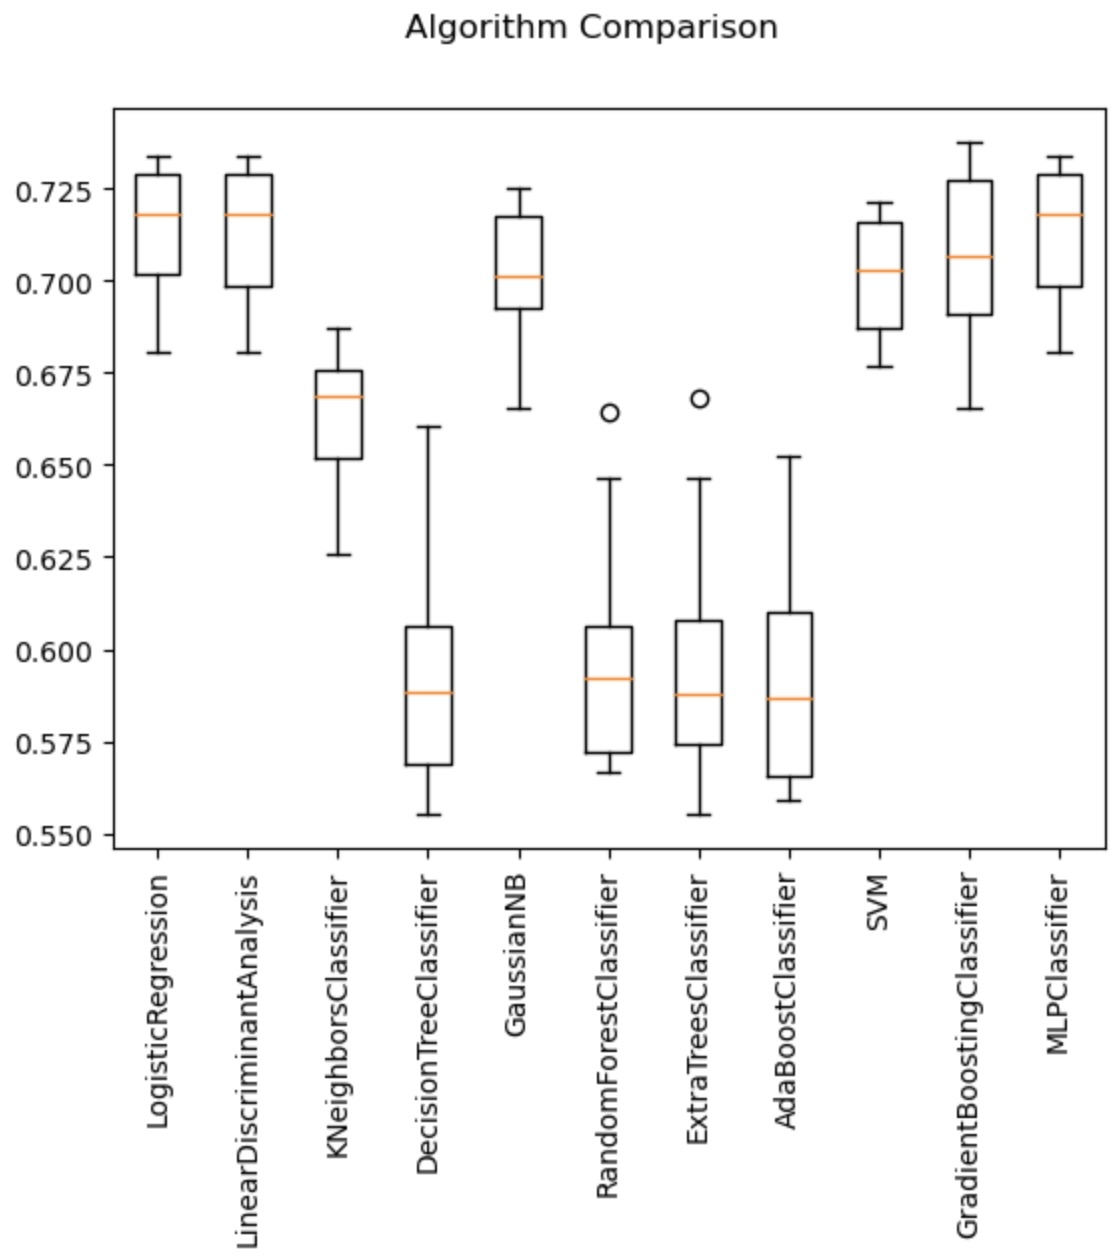
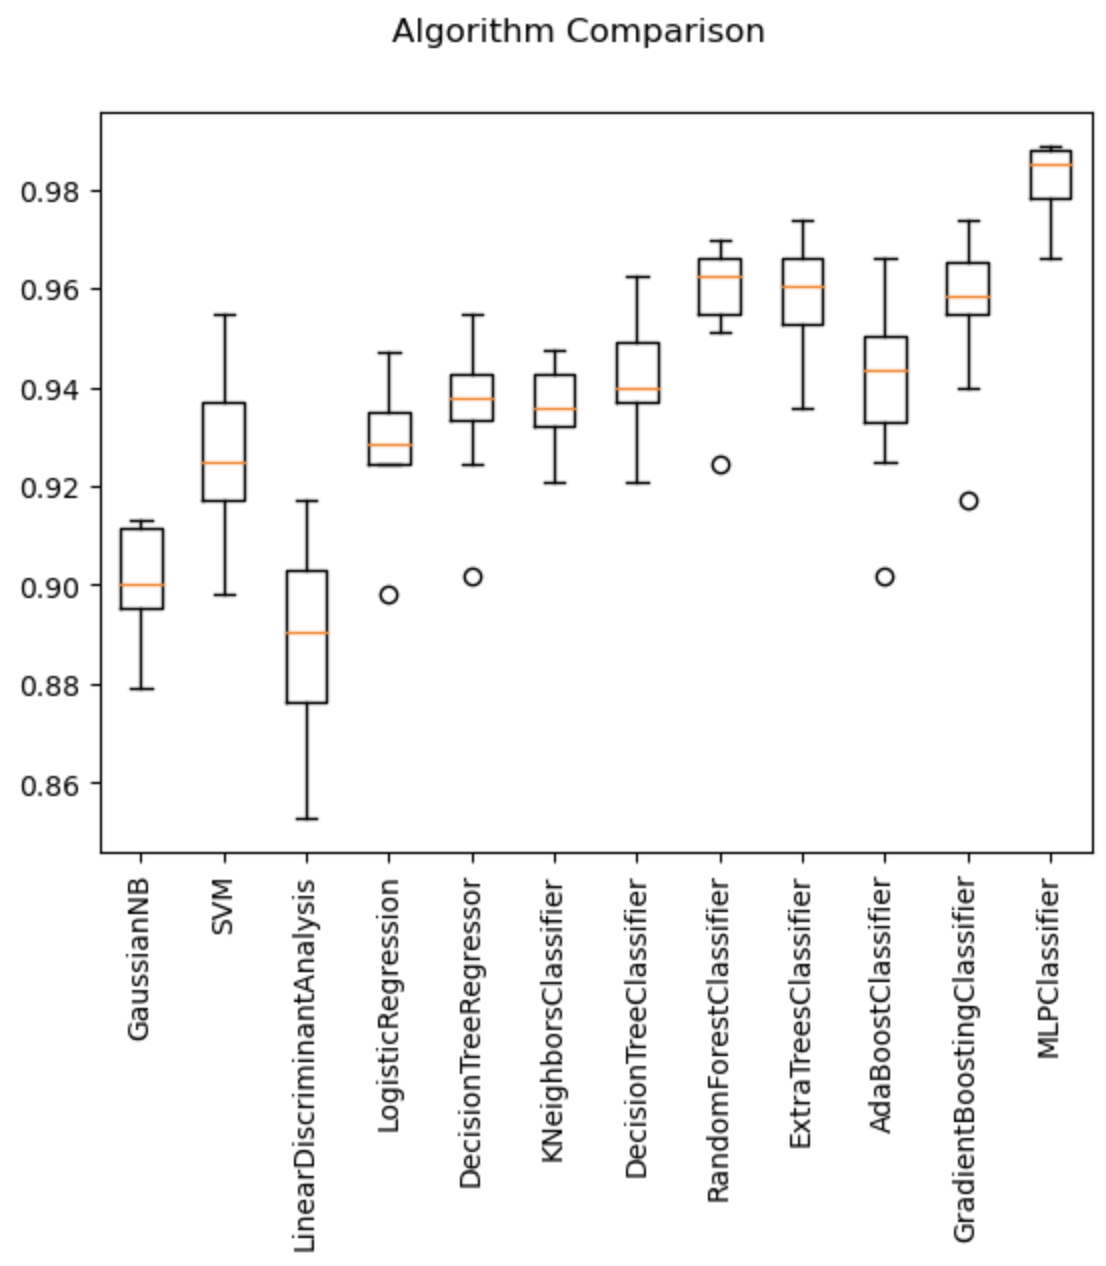
Updated readme data and images.

diff --git a/README.md b/README.md
@@ -46,27 +46,29 @@ This project is primarily intended for analysis in order to identify ideal machi
 
 The result of testing multiple models with the initial data as well as the box plot of the results can be seen below:
 
-* LogisticRegression: 0.713262 (0.018495)
+* GaussianNB: 0.900 (0.011)
 
-* LinearDiscriminantAnalysis: 0.712880 (0.018832)
+* SVM: 0.925 (0.016)
 
-* KNeighborsClassifier: 0.663751 (0.017812)
+* LinearDiscriminantAnalysis: 0.888 (0.020)
 
-* DecisionTreeClassifier: 0.595224 (0.032750)
+* LogisticRegression: 0.929 (0.013)
 
-* GaussianNB: 0.700695 (0.018807)
+* DecisionTreeRegressor: 0.935 (0.013)
 
-* RandomForestClassifier: 0.598266 (0.031925)
+* KNeighborsClassifier: 0.936 (0.008)
 
-* ExtraTreesClassifier: 0.597890 (0.033889)
+* DecisionTreeClassifier: 0.941 (0.013)
 
-* AdaBoostClassifier: 0.593313 (0.032291)
+* RandomForestClassifier: 0.958 (0.012)
 
-* SVM: 0.701454 (0.015199)
+* ExtraTreesClassifier: 0.960 (0.011)
 
-* GradientBoostingClassifier: 0.706790 (0.022231)
+* AdaBoostClassifier: 0.940 (0.017)
 
-* MLPClassifier: 0.712880 (0.018832)
+* GradientBoostingClassifier: 0.955 (0.015)
+
+* MLPClassifier: 0.982 (0.007)
 
 <img src="./imgs/Models.jpeg" alt="Models Data Comparison" width="600" height="700">
 
